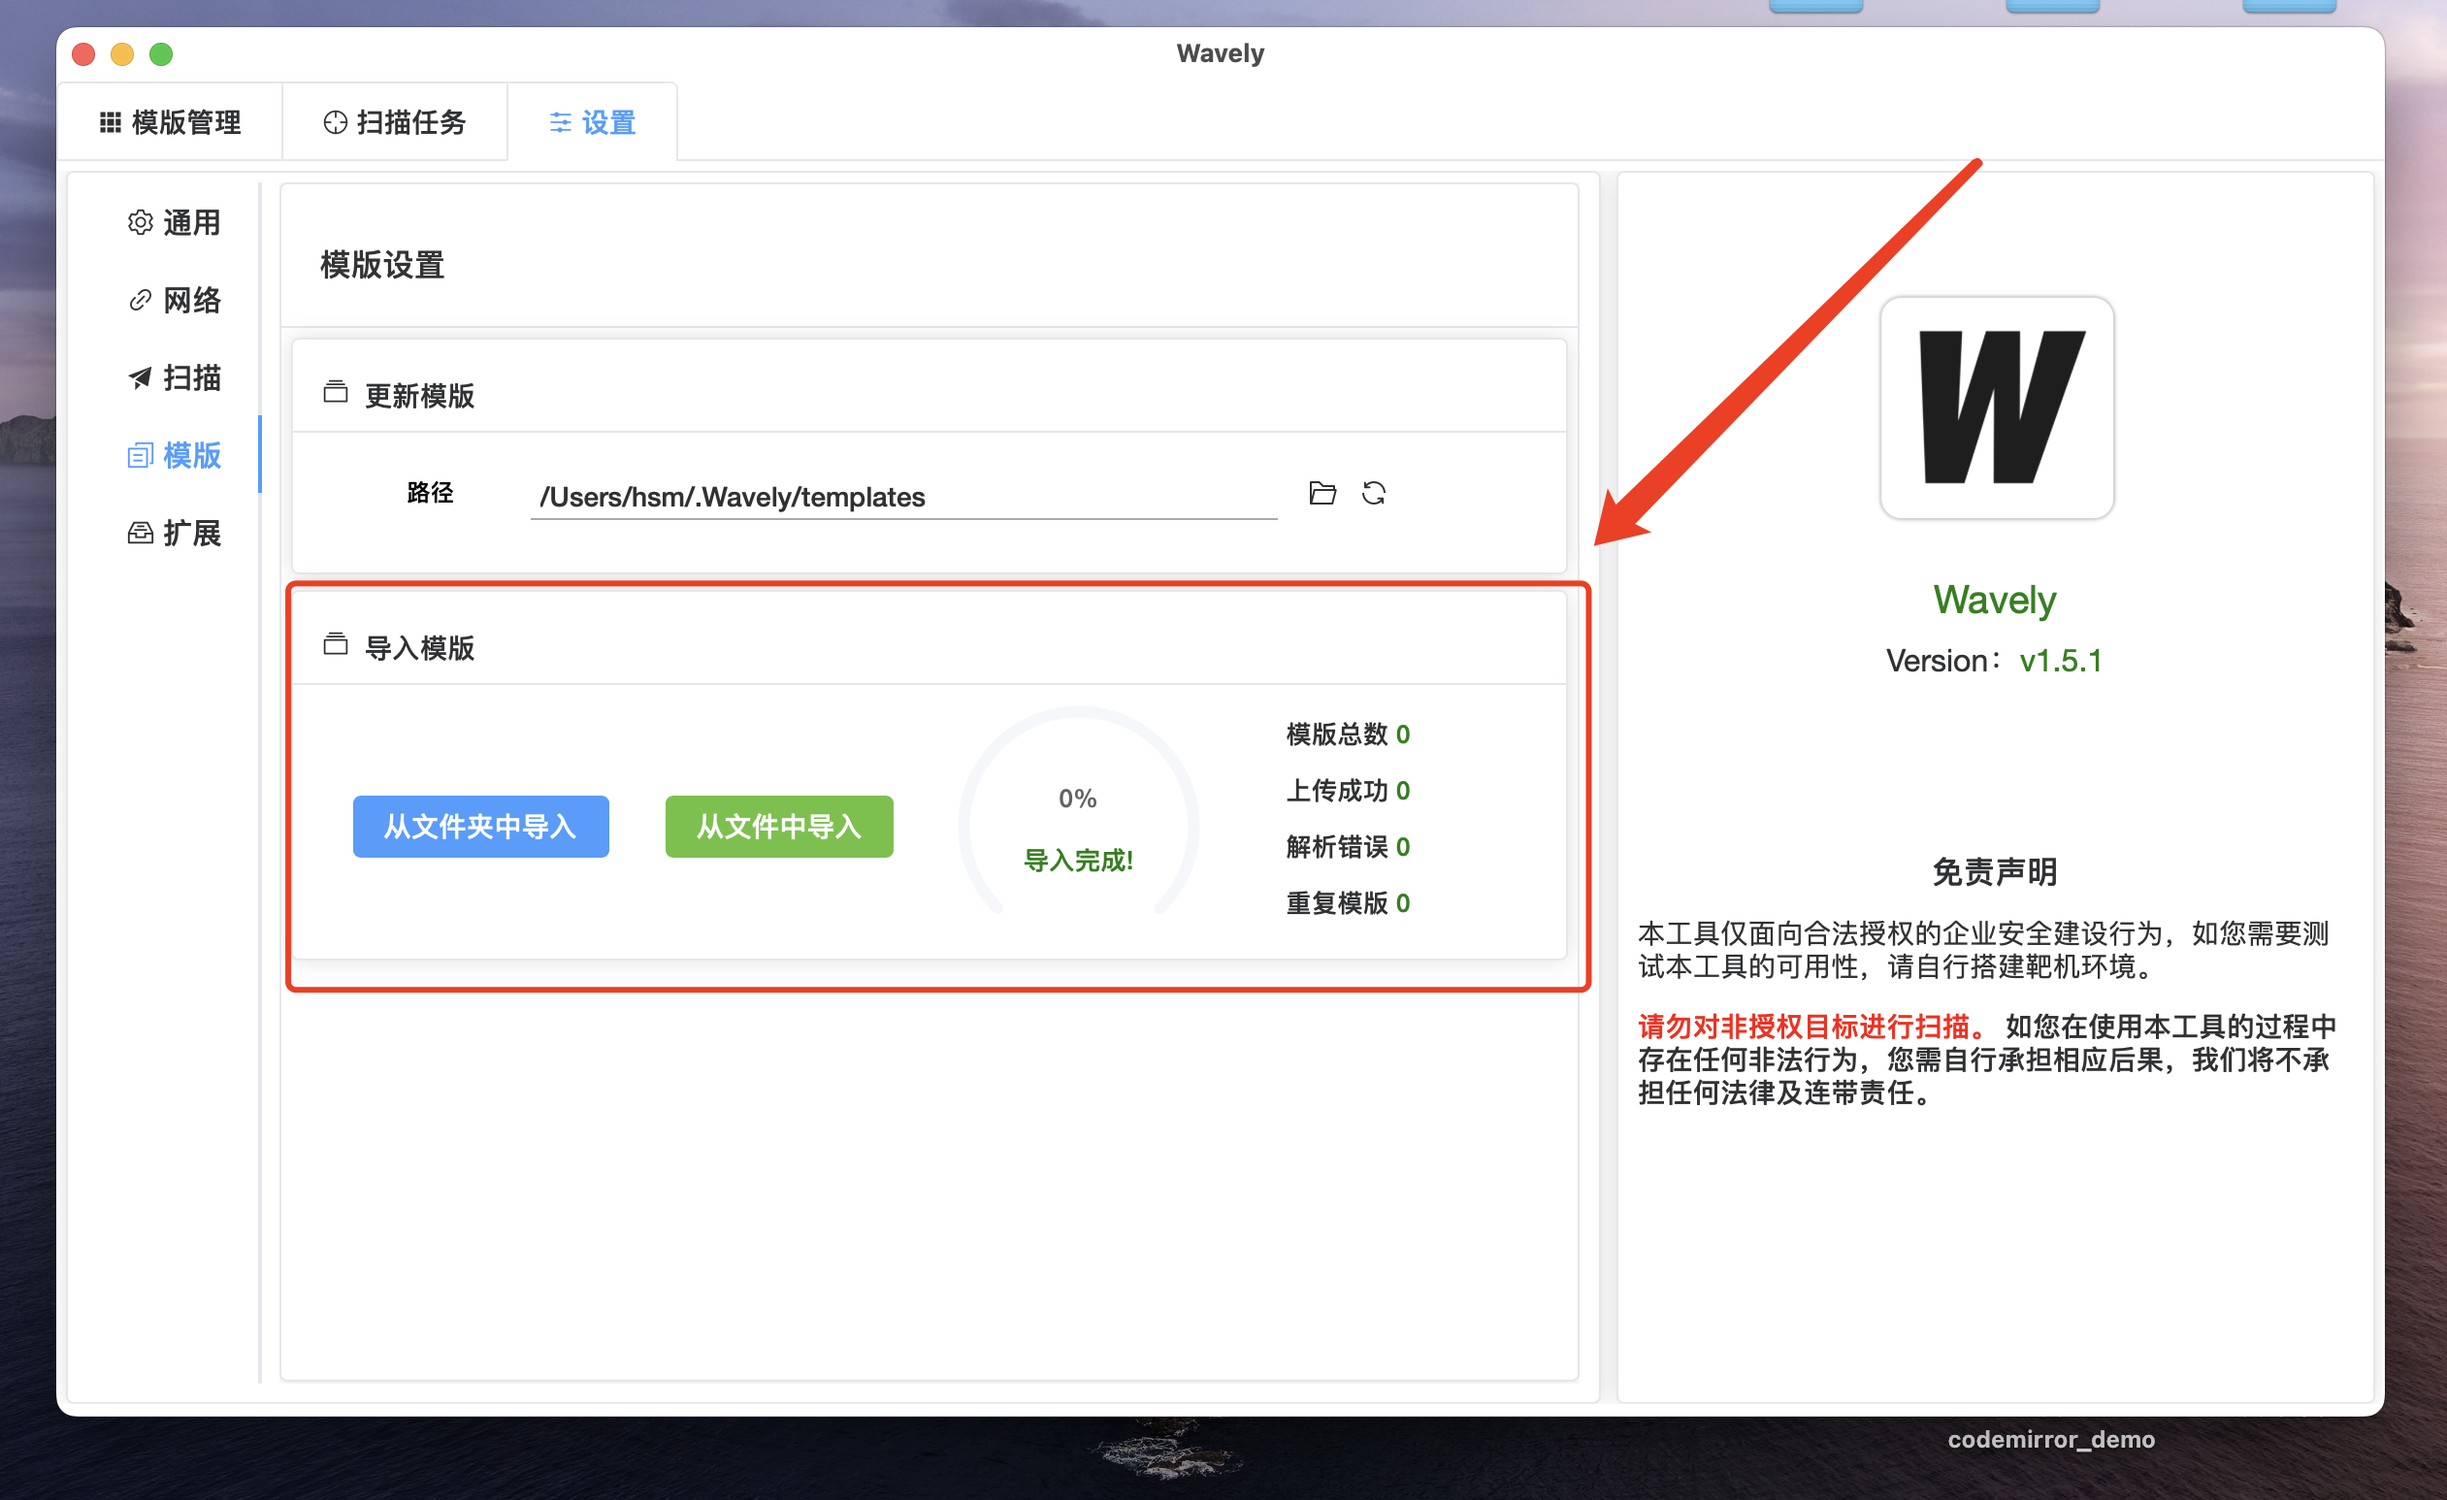
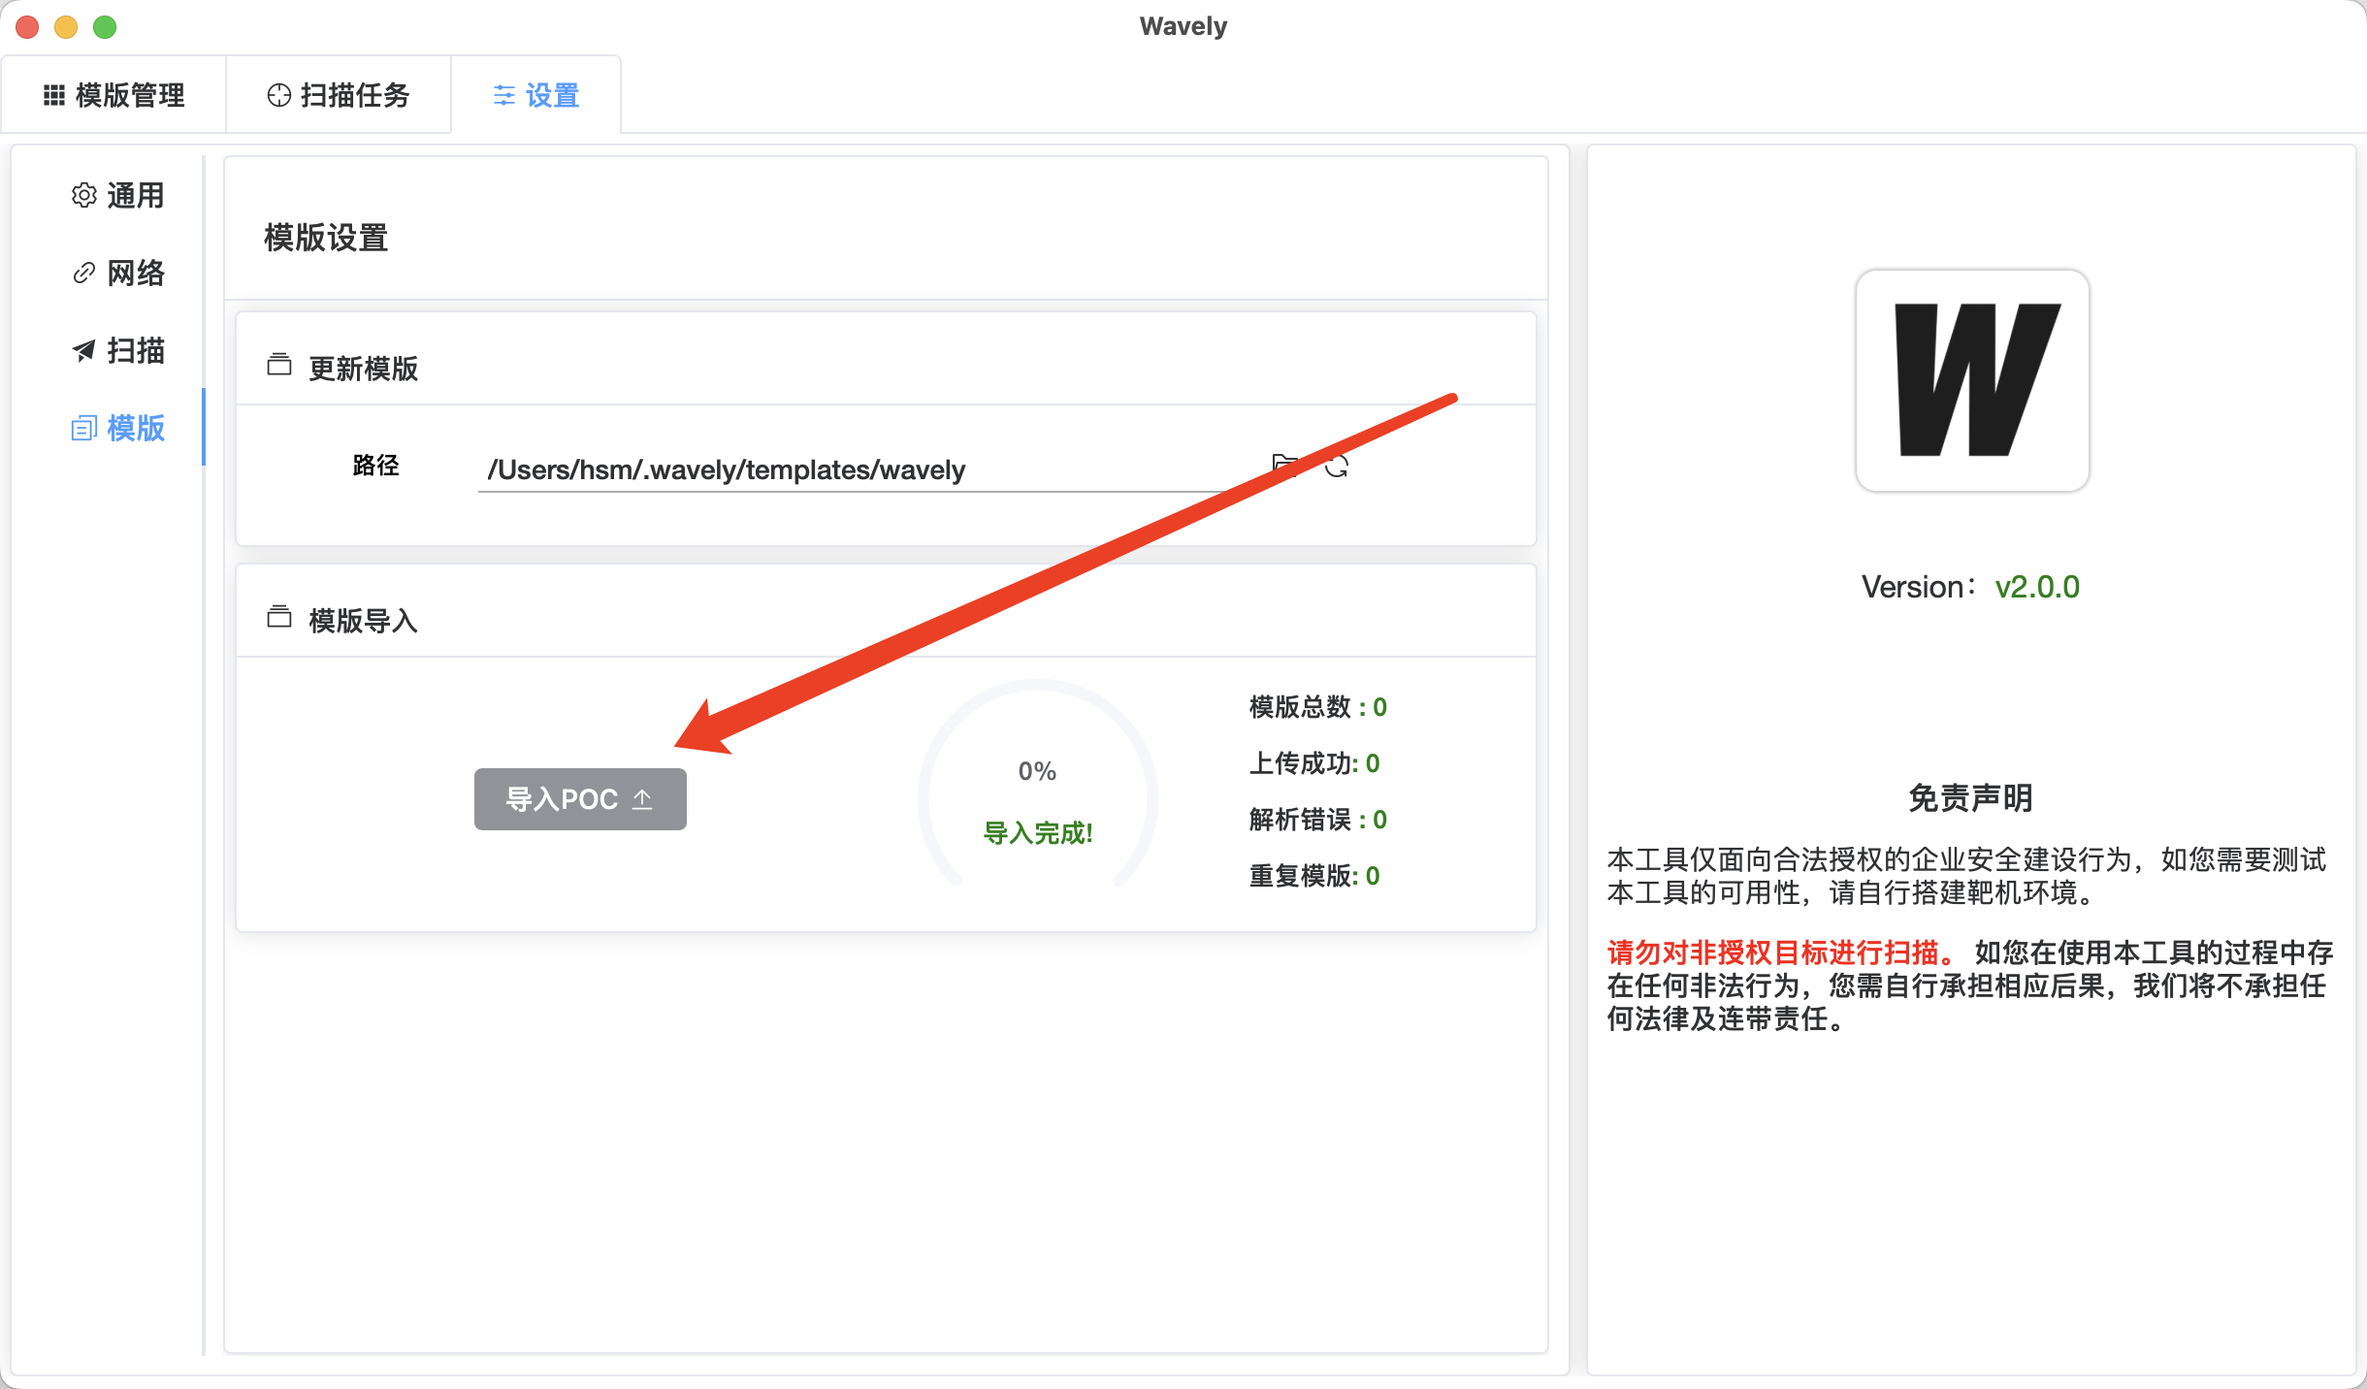
update

diff --git a/README.md b/README.md
@@ -18,17 +18,11 @@
 - [x] 支持主题切换
 - [x] 支持多种 `nuclei` 模版导入方式
 - [x] 支持 `nuclei` 模版去重导入
-- [x] 基本支持简体中文和英文
-
-### 后期功能实现
-
-- [ ] App设置-配置持久化生效
-- [ ] 显示扫描进度
-- [ ] POC导出功能
-- [ ] 扫描任务暂停功能
-
-## 快速使用
-### 安装
+- [x] 基本支持国际化【简体中文/英文】
+- [x] 扫描任务停止功能
+- [x] 支持配置持久化
+- [x] 支持api扫描
+## 安装
 #### MacOS
 1. 下载相应压缩包并解压，解压文件夹中包含 `Wavely.app`和 `Applications文件夹`。
 2. 将`Wavely.app`拖到`Applications文件夹`中
@@ -41,34 +35,20 @@
 ##### 手动安装
 -  下载`Wavely_1.5.4_windows_amd64.exe
 `文件，得到exe文件，保存到自定义文件夹中即可。
-## POC模版导入
 
-#### POC模版保存路径
-##### 1. macos
-对于MacOS和Linux，首次打开App会在家目录生成模版文件夹
-``` bash
-ls /Users/$USER/.wavely/templates # macos
-ls /home/$USER/.wavely/templates    # linux
-```
-##### 2. windows
-会在wavely.exe的同级目录下创建`.wavely/templates`，将POC放入此文件夹中（请开启显示隐藏文件/文件夹）。
-
-
+## 快速使用
 #### POC导入
-##### 1. 在App中导入POC（带POC去重）
+##### 在App中导入POC（带POC去重）
 - 点击`从文件夹中导入`按钮，选择`nuclei poc文件目录`。
 
 ![alt text](imgs/14.png)
 
-##### 2. 手动导入POC（不带POC去重）
-1. 打开 `Wavely`，将初始化数据库和poc配置目录。
-2. 将nuclei poc文件复制到以下文件夹中：
+> 也可支持手动导入POC（不带POC去重）【不建议使用】
+> 1. 打开 `Wavely`，将初始化数据库和poc配置目录。
+> 2. 将nuclei poc文件复制到以下文件夹中：
     - **MacOS**：/Users/$USER/.wavely/templates
     - **Windows**：.wavely/templates
-3. 打开 `Wavely`，进入**设置**->**模版**->点击**更新按钮图标**。
-
-> 注意：首次打开App将初始化数据库和POC保存路径
-
+> 3. 打开 `Wavely`，进入**设置**->**模版**->点击**更新按钮图标**。
 ![main](imgs/13.png)
 
 
